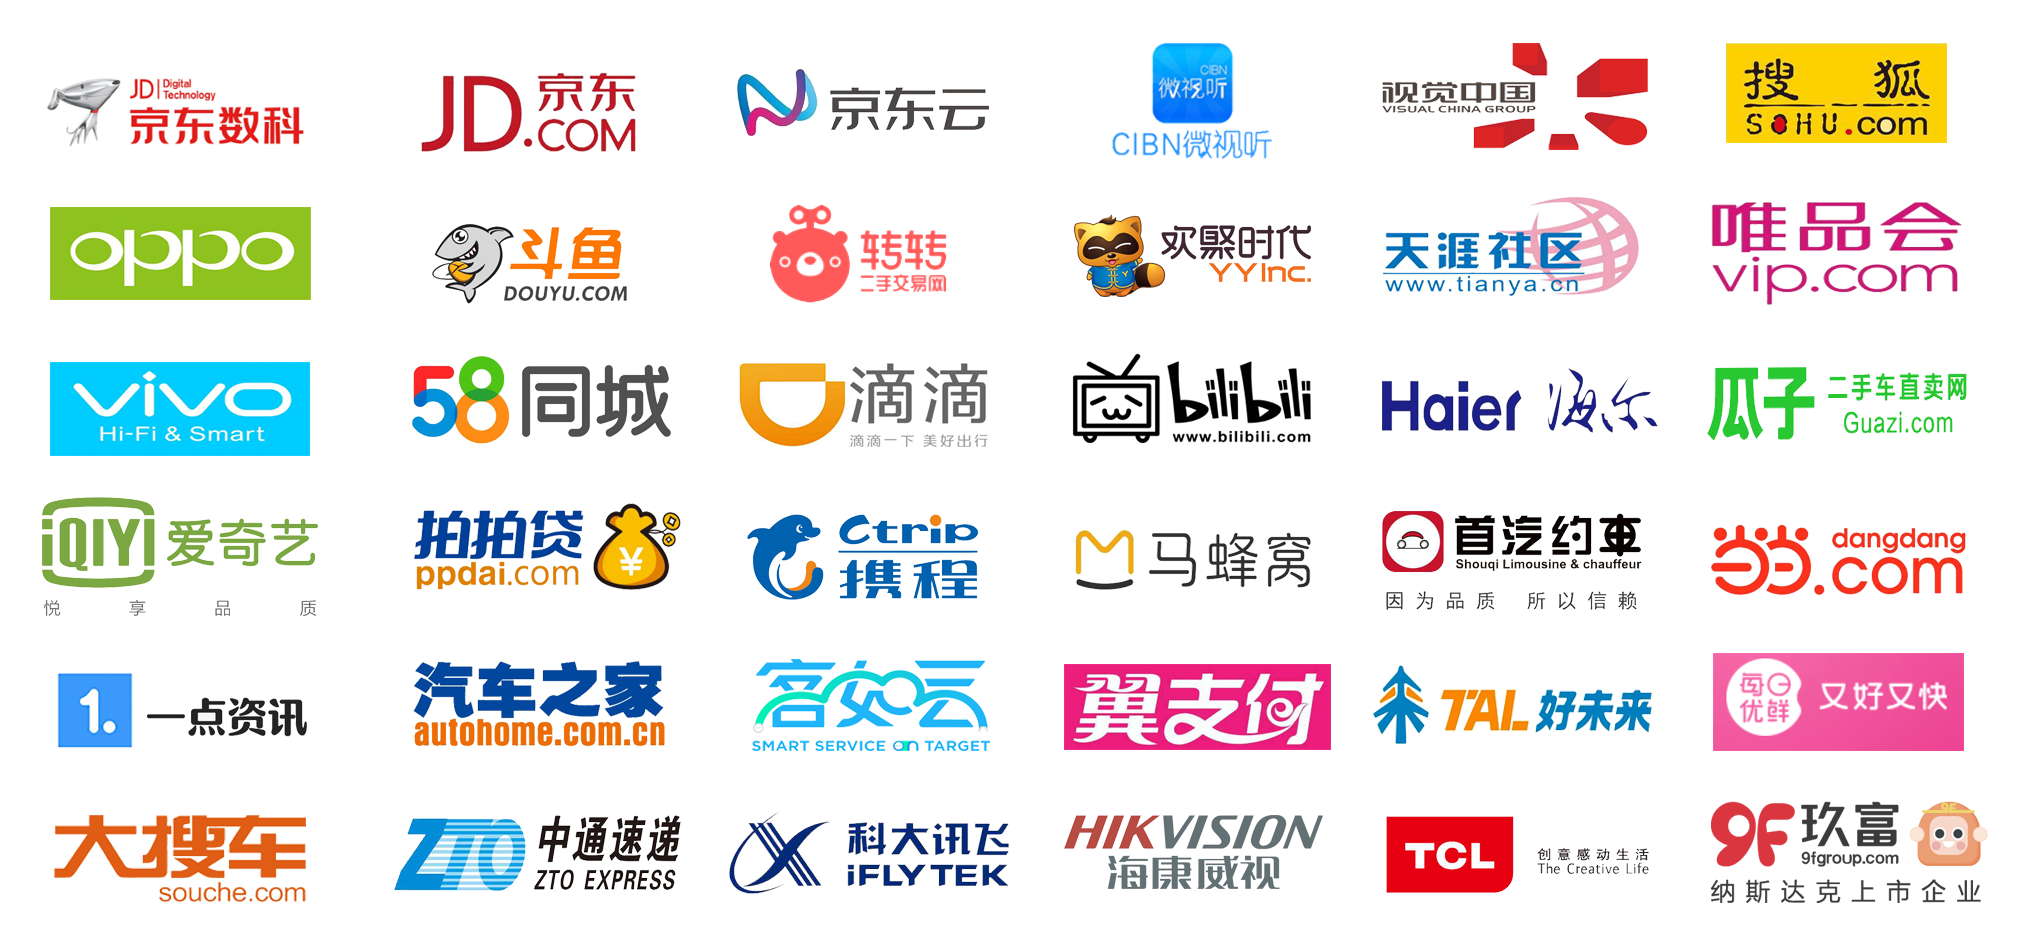
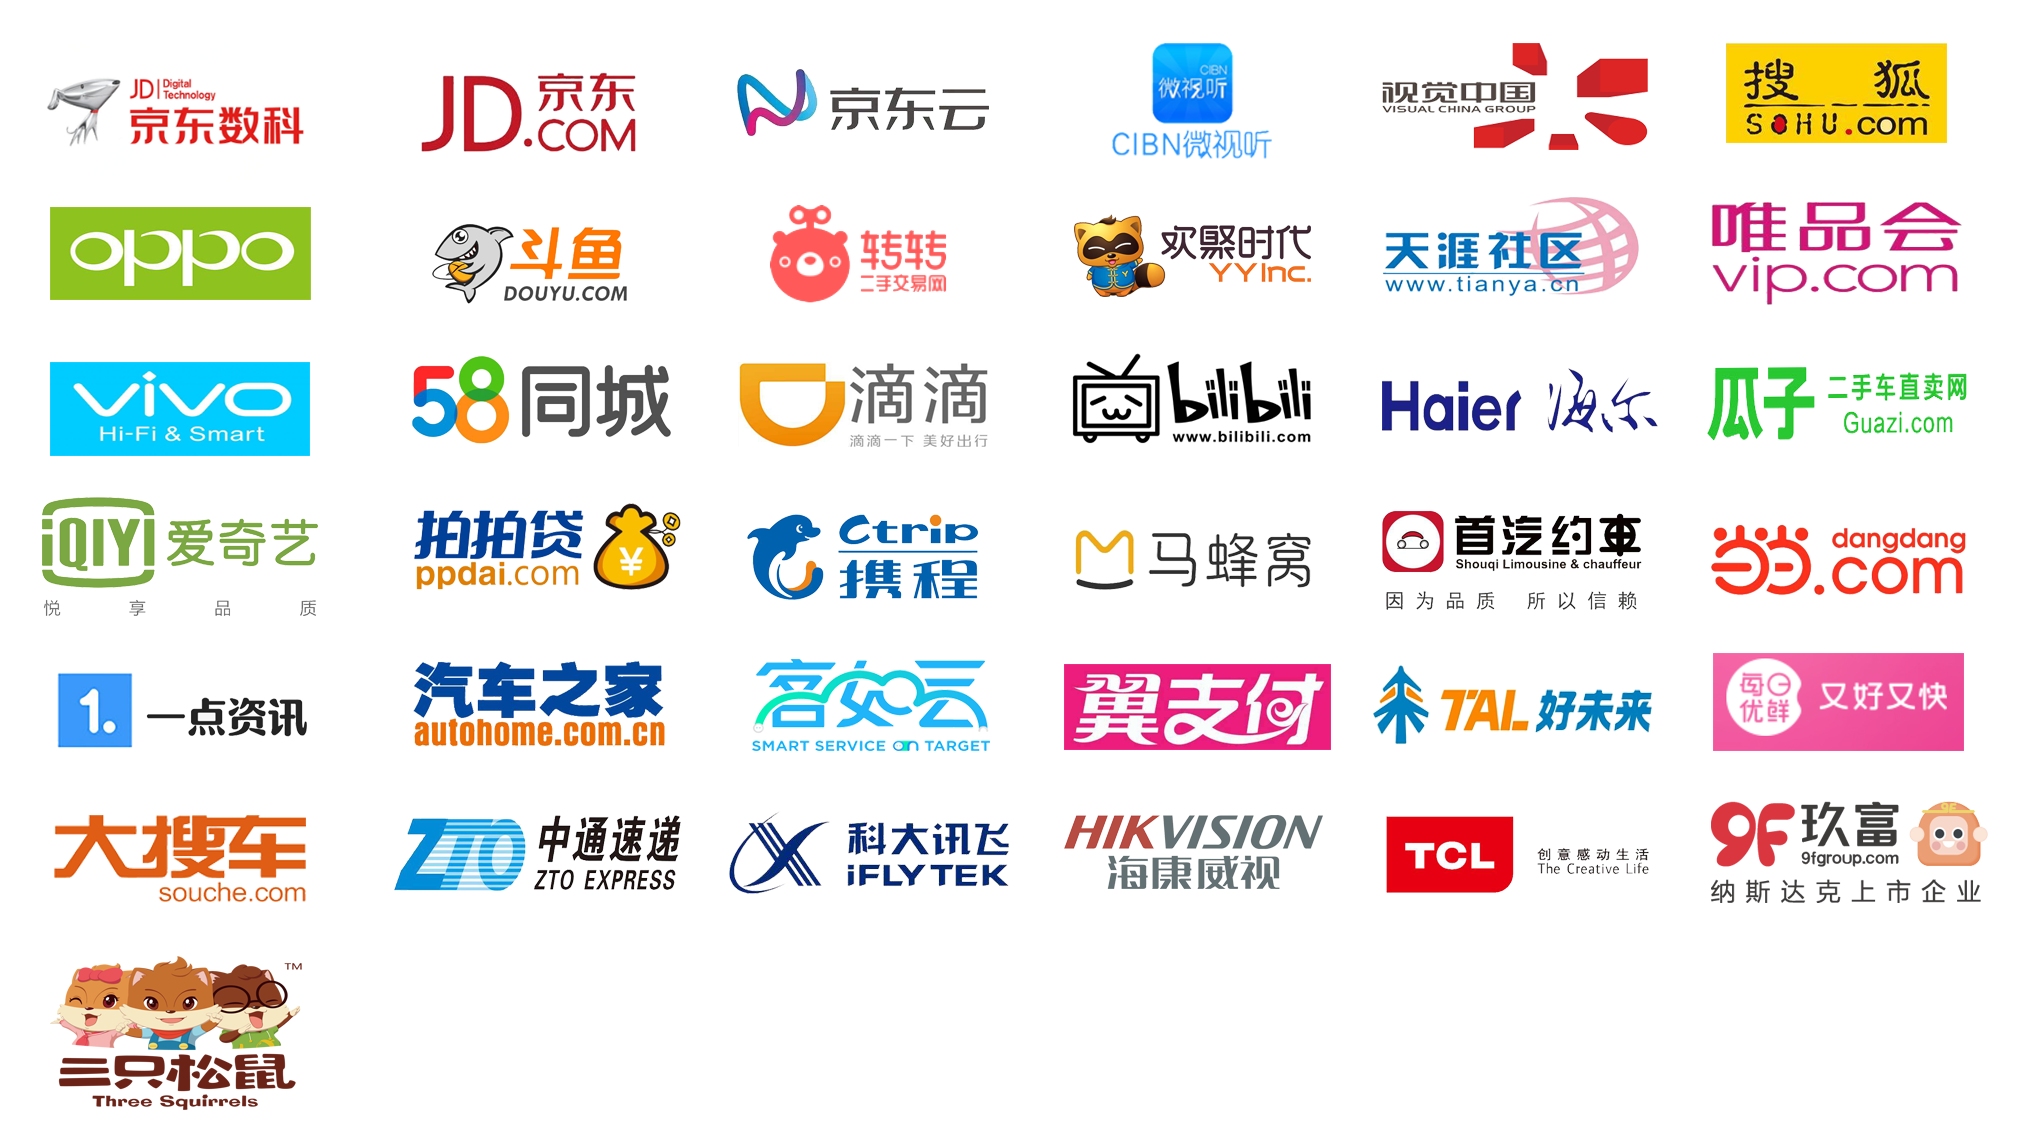
Add Three Squirrels to company list and user wall

diff --git a/community/content/poweredby/_index.cn.md b/community/content/poweredby/_index.cn.md
@@ -90,6 +90,7 @@ chapter = true
 1. 汽车之家  https://www.autohome.com.cn/ 
 1. 权大师 https://www.quandashi.com/ 
 1. 赛特斯CertusNet http://www.certusnet.com.cn/ 
+1. 三只松鼠 http://www.3songshu.com/
 1. 视觉中国 https://500px.me/ 
 1. 首汽约车 https://www.01zhuanche.com/
 1. 搜好货 https://www.912688.com/

diff --git a/community/content/poweredby/_index.en.md b/community/content/poweredby/_index.en.md
@@ -102,6 +102,7 @@ The list here will be shown in the alphabetical order.
 1. Super SOCO https://www.supersoco.com/
 1. TAL http://www.100tal.com/
 1. TCL https://www.tcl.com/
+1. Three Squirrels http://www.3songshu.com/
 1. TianYa https://www.tianya.cn/
 1. TonySourcing  https://TonySourcing.com/
 1. Trawe https://www.trawe.cn/
